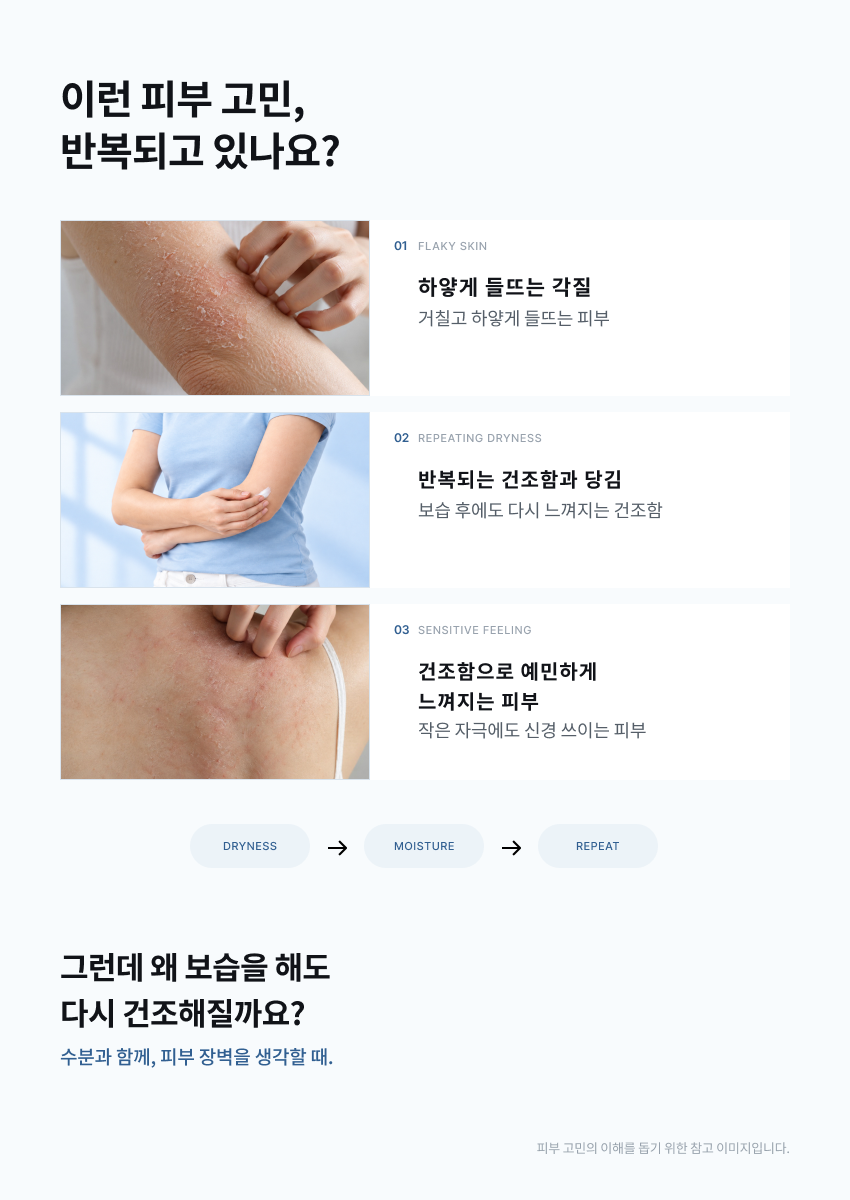
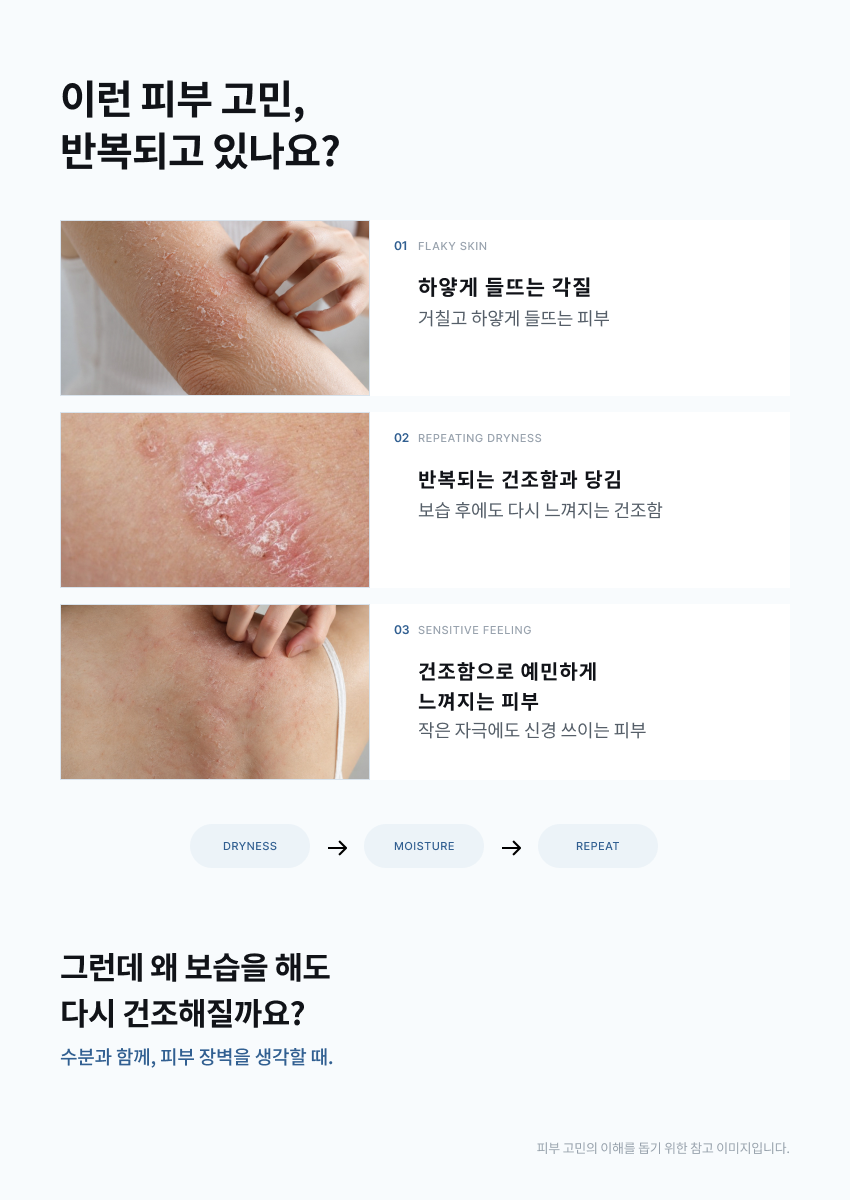
Include all three founder-provided skin photos

Changed region(s): [[0.0612, 0.3392, 0.4588, 0.4933]]

diff --git a/resole-lotion-demo/product/ecrive-barrier-lotion.html b/resole-lotion-demo/product/ecrive-barrier-lotion.html
@@ -60,20 +60,20 @@
     </section>
     <nav class="detail-tabs store-shell"><a class="active" href="#detail">상세페이지</a><a href="#info">프로젝트 정보</a><a href="#faq">안내</a></nav>
     <section id="detail" class="detail ecrive-detail"><div class="detail-stack">
-<img class="detail-image" src="../assets/ecrive-barrier-lotion/detail/p01.png?v=20261015-r1" alt="ECRIVE 상세페이지 1" width="850" height="1200" loading="lazy" />
-<img class="detail-image" src="../assets/ecrive-barrier-lotion/detail/p02.png?v=20261015-r1" alt="ECRIVE 상세페이지 2" width="850" height="1200" loading="lazy" />
-<img class="detail-image" src="../assets/ecrive-barrier-lotion/detail/p03.png?v=20261015-r1" alt="ECRIVE 상세페이지 3" width="850" height="1450" loading="lazy" />
-<img class="detail-image" src="../assets/ecrive-barrier-lotion/detail/p04.png?v=20261015-r1" alt="ECRIVE 상세페이지 4" width="850" height="1200" loading="lazy" />
-<img class="detail-image" src="../assets/ecrive-barrier-lotion/detail/p05.png?v=20261015-r1" alt="ECRIVE 상세페이지 5" width="850" height="1200" loading="lazy" />
-<img class="detail-image" src="../assets/ecrive-barrier-lotion/detail/p06.png?v=20261015-r1" alt="ECRIVE 상세페이지 6" width="850" height="1950" loading="lazy" />
-<img class="detail-image" src="../assets/ecrive-barrier-lotion/detail/p07.png?v=20261015-r1" alt="ECRIVE 상세페이지 7" width="850" height="1200" loading="lazy" />
-<div class="ecrive-motion"><img class="detail-image" src="../assets/ecrive-barrier-lotion/detail/p08.png?v=20261015-r1" alt="ECRIVE 상세페이지 8" width="850" height="1200" loading="lazy" />
+<img class="detail-image" src="../assets/ecrive-barrier-lotion/detail/p01.png?v=20261015-r2" alt="ECRIVE 상세페이지 1" width="850" height="1200" loading="lazy" />
+<img class="detail-image" src="../assets/ecrive-barrier-lotion/detail/p02.png?v=20261015-r2" alt="ECRIVE 상세페이지 2" width="850" height="1200" loading="lazy" />
+<img class="detail-image" src="../assets/ecrive-barrier-lotion/detail/p03.png?v=20261015-r2" alt="ECRIVE 상세페이지 3" width="850" height="1450" loading="lazy" />
+<img class="detail-image" src="../assets/ecrive-barrier-lotion/detail/p04.png?v=20261015-r2" alt="ECRIVE 상세페이지 4" width="850" height="1200" loading="lazy" />
+<img class="detail-image" src="../assets/ecrive-barrier-lotion/detail/p05.png?v=20261015-r2" alt="ECRIVE 상세페이지 5" width="850" height="1200" loading="lazy" />
+<img class="detail-image" src="../assets/ecrive-barrier-lotion/detail/p06.png?v=20261015-r2" alt="ECRIVE 상세페이지 6" width="850" height="1950" loading="lazy" />
+<img class="detail-image" src="../assets/ecrive-barrier-lotion/detail/p07.png?v=20261015-r2" alt="ECRIVE 상세페이지 7" width="850" height="1200" loading="lazy" />
+<div class="ecrive-motion"><img class="detail-image" src="../assets/ecrive-barrier-lotion/detail/p08.png?v=20261015-r2" alt="ECRIVE 상세페이지 8" width="850" height="1200" loading="lazy" />
 <div class="motion-tile" style="left:7.05882353%;top:20.91666667%;width:42.00000000%;height:20.83333333%"><video autoplay loop muted playsinline controls preload="metadata" aria-label="01 PUMP 로션 사용 영상"><source src="../assets/ecrive-barrier-lotion/video/01pump.mp4?v=20260930-r1" type="video/mp4"></video><span class="motion-label">01 PUMP</span></div>
 <div class="motion-tile" style="left:50.94117647%;top:20.91666667%;width:42.00000000%;height:20.83333333%"><video autoplay loop muted playsinline controls preload="metadata" aria-label="02 ARM 로션 사용 영상"><source src="../assets/ecrive-barrier-lotion/video/02arm.mp4?v=20260930-r1" type="video/mp4"></video><span class="motion-label">02 ARM</span></div>
 <div class="motion-tile" style="left:7.05882353%;top:43.08333333%;width:42.00000000%;height:20.83333333%"><video autoplay loop muted playsinline controls preload="metadata" aria-label="03 LEG 로션 사용 영상"><source src="../assets/ecrive-barrier-lotion/video/03leg.mp4?v=20260930-r1" type="video/mp4"></video><span class="motion-label">03 LEG</span></div>
 <div class="motion-tile" style="left:50.94117647%;top:43.08333333%;width:42.00000000%;height:20.83333333%"><video autoplay loop muted playsinline controls preload="metadata" aria-label="04 ELBOW 로션 사용 영상"><source src="../assets/ecrive-barrier-lotion/video/04elbow.mp4?v=20260930-r1" type="video/mp4"></video><span class="motion-label">04 ELBOW</span></div></div>
-<img class="detail-image" src="../assets/ecrive-barrier-lotion/detail/p09.png?v=20261015-r1" alt="ECRIVE 상세페이지 9" width="850" height="1200" loading="lazy" />
-<img class="detail-image" src="../assets/ecrive-barrier-lotion/detail/p10.png?v=20261015-r1" alt="ECRIVE 상세페이지 10" width="850" height="3660" loading="lazy" />
+<img class="detail-image" src="../assets/ecrive-barrier-lotion/detail/p09.png?v=20261015-r2" alt="ECRIVE 상세페이지 9" width="850" height="1200" loading="lazy" />
+<img class="detail-image" src="../assets/ecrive-barrier-lotion/detail/p10.png?v=20261015-r2" alt="ECRIVE 상세페이지 10" width="850" height="3660" loading="lazy" />
 </div></section>
     <section id="info" class="info-section store-shell detail-narrow"><h2>프로젝트 정보</h2><div class="info-grid"><div><span>브랜드</span><strong>ECRIVE</strong></div><div><span>제품명</span><strong>배리어 로션</strong></div><div><span>용량</span><strong>300 mL / 10.14 fl. oz.</strong></div></div></section>
     <section id="faq" class="faq store-shell detail-narrow"><h2>안내</h2><details open><summary>이 페이지는 실제 판매 페이지인가요?</summary><p>본 페이지는 상세페이지 디자인 포트폴리오 시안이며 실제 결제는 제공되지 않습니다.</p></details></section>

diff --git a/resole-lotion-demo/index.html b/resole-lotion-demo/index.html
@@ -54,8 +54,8 @@
       <div class="store-section-head"><div><p class="section-kicker">NEW ARRIVAL</p><h2>새롭게 만나는 RESOLE</h2></div><a href="#all">전체보기 <span>→</span></a></div>
       <div class="product-rail" aria-label="신상품 목록">
         <article class="product-card">
-          <a href="product/ecrive-barrier-lotion.html?v=20261015-r1" class="product-image-wrap"><span class="card-badge mist">NEW</span><img src="assets/ecrive-barrier-lotion/shop/01-copy-launch.jpg?v=20260928-r1" alt="ECRIVE 배리어 로션 300 mL" /></a>
-          <div class="product-card-body"><p class="product-brand">ECRIVE</p><a href="product/ecrive-barrier-lotion.html?v=20261015-r1" class="product-name">배리어 로션 300 mL</a><div class="product-price"><strong>34,900원</strong><del>39,000원</del></div><p class="product-meta">바르고 또 발라도, 반복되는 건조함을 위한 보습</p></div>
+          <a href="product/ecrive-barrier-lotion.html?v=20261015-r2" class="product-image-wrap"><span class="card-badge mist">NEW</span><img src="assets/ecrive-barrier-lotion/shop/01-copy-launch.jpg?v=20260928-r1" alt="ECRIVE 배리어 로션 300 mL" /></a>
+          <div class="product-card-body"><p class="product-brand">ECRIVE</p><a href="product/ecrive-barrier-lotion.html?v=20261015-r2" class="product-name">배리어 로션 300 mL</a><div class="product-price"><strong>34,900원</strong><del>39,000원</del></div><p class="product-meta">바르고 또 발라도, 반복되는 건조함을 위한 보습</p></div>
         </article>
         <article class="product-card">
           <a href="product/goyobam.html?v=20260908-r10" class="product-image-wrap"><span class="card-badge mist">NEW</span><img src="assets/goyobam/shop/thumb01.png?v=20260827-r1" alt="ROOTEDIT GOYOBAM 고요밤 150 ml" /></a>
@@ -86,7 +86,7 @@
     <section id="all" class="store-section store-shell compact-bottom">
       <div class="store-section-head"><div><p class="section-kicker">ALL PRODUCTS</p><h2>전체 상품</h2></div></div>
       <div class="all-product-grid">
-        <article class="product-card"><a href="product/ecrive-barrier-lotion.html?v=20261015-r1" class="product-image-wrap"><img src="assets/ecrive-barrier-lotion/shop/06-image-main.jpg?v=20260928-r1" alt="ECRIVE 배리어 로션 300 mL" /></a><div class="product-card-body"><p class="product-brand">ECRIVE</p><a href="product/ecrive-barrier-lotion.html?v=20261015-r1" class="product-name">배리어 로션 300 mL</a><div class="product-price"><strong>34,900원</strong><del>39,000원</del></div></div></article>
+        <article class="product-card"><a href="product/ecrive-barrier-lotion.html?v=20261015-r2" class="product-image-wrap"><img src="assets/ecrive-barrier-lotion/shop/06-image-main.jpg?v=20260928-r1" alt="ECRIVE 배리어 로션 300 mL" /></a><div class="product-card-body"><p class="product-brand">ECRIVE</p><a href="product/ecrive-barrier-lotion.html?v=20261015-r2" class="product-name">배리어 로션 300 mL</a><div class="product-price"><strong>34,900원</strong><del>39,000원</del></div></div></article>
         <article class="product-card"><a href="product/goyobam.html?v=20260908-r10" class="product-image-wrap"><img src="assets/goyobam/shop/thumb06.png?v=20260827-r1" alt="ROOTEDIT GOYOBAM 고요밤 150 ml" /></a><div class="product-card-body"><p class="product-brand">ROOTEDIT</p><a href="product/goyobam.html?v=20260908-r10" class="product-name">GOYOBAM 고요밤 150 ml</a><div class="product-availability"><strong>PORTFOLIO</strong><span>상세 보기</span></div></div></article>
         <article class="product-card"><a href="product/cream-mist.html" class="product-image-wrap"><img src="assets/cream-mist/shop/thumb05.jpg" alt="RESOLE 크림 미스트 80 mL" /></a><div class="product-card-body"><p class="product-brand">RESOLE</p><a href="product/cream-mist.html" class="product-name">크림 미스트 80 mL</a><div class="product-price"><strong>23,000원</strong><span>30%</span></div></div></article>
         <article class="product-card"><a href="product/radiance-body-mist.html" class="product-image-wrap"><img src="assets/body-mist/shop/S-06_thumb.png" alt="리솔90 레디언스 바디미스트 100 mL" /></a><div class="product-card-body"><p class="product-brand">RESOLE90</p><a href="product/radiance-body-mist.html" class="product-name">레디언스 바디미스트 100 mL</a><div class="product-availability"><strong>런칭 기념</strong><span>혜택 확인</span></div></div></article>
